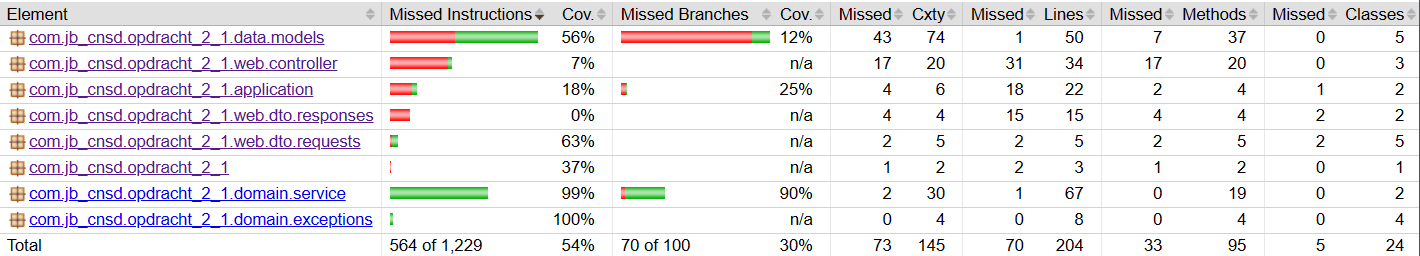
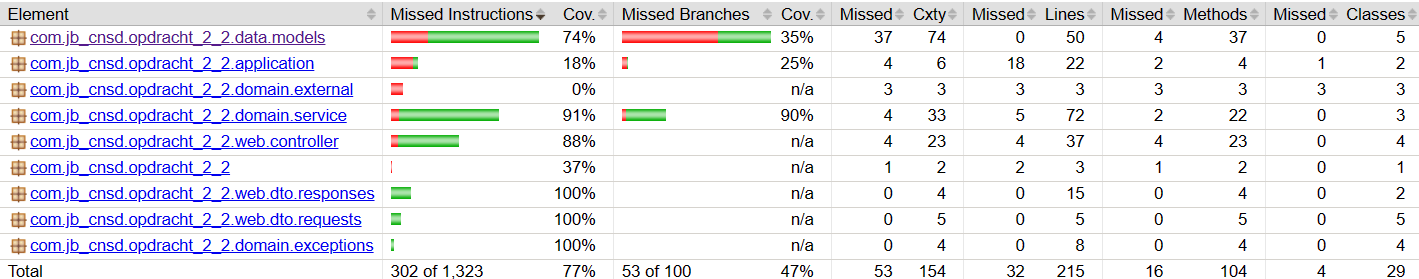
Updated reports

Changed region(s): [[0.0, 0.0312, 1.0, 1.0]]

diff --git a/module-1/opdracht_2_2/README.md b/module-1/opdracht_2_2/README.md
@@ -29,16 +29,12 @@
 ### Unit testing
 Jacoco Report
 ![Jacoco report](/docs/jacoco-report.png)
-In the Jacoco report above, you can see that the majority of the tests are testing 
-classes from the domain.service and the data.models folder. The coverage percentage is
-not yet on the level of 80%, which is the minimum for many software companies. In the 
-integration testing fase I hope to increase this number.
+In the Jacoco report above, you can see that the test coverage has increased compared 
+to the results in the unit testing assignment. Especially in the web.controller folder
+but also the data.models folder.
 
 ### Mutation testing
 PITest report
 ![PITest report](/docs/pitest-report.png)
-The majority of the mutations are created in the data.models folder. The classes in
-this folder contain Lombok annotations. These annotations automatically generate some
-of the standard method implementations that pojo's normally contain. PITest created 
-the majority of the mutations in these generated methods from Lombok, which are not
-as interesting.
+When we look at the new version of the PITest report, then we can see that the mutations
+coverage of the web.controller has significantly improved.
